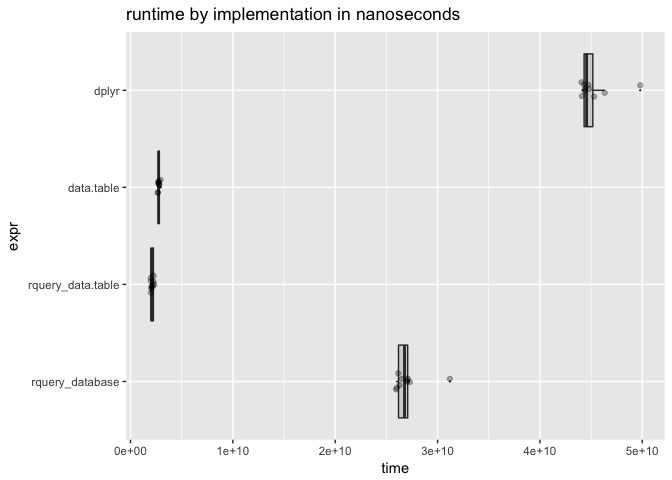
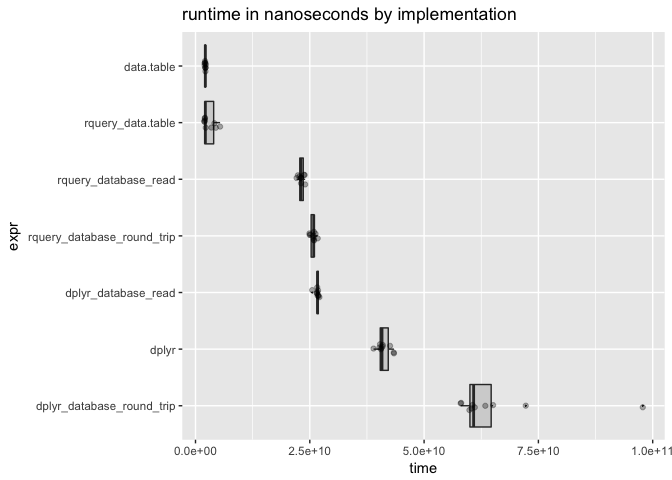
re-run at larger scale

diff --git a/extras/data_table.md b/extras/data_table.md
@@ -170,15 +170,15 @@ execute(dL, rquery_pipeline) %.>%
 scale <- 0.237
 
 dplyr_pipeline <- . %>% 
-  as.tbl(.[, c("subjectID", "surveyCategory", "assessmentTotal")]) %>% # narrow and convert to preferred structure
-  group_by(subjectID) %>%
-  mutate(probability =
-           exp(assessmentTotal * scale)/
-           sum(exp(assessmentTotal * scale), na.rm = TRUE)) %>%
-  arrange(probability, surveyCategory) %>%
-  filter(row_number() == n()) %>%
-  ungroup() %>%
+  select(subjectID, surveyCategory, assessmentTotal) %>% # narrow to columns of interest
   rename(diagnosis = surveyCategory) %>%
+  mutate(probability = exp(assessmentTotal * scale)) %>%
+  group_by(subjectID) %>%
+  mutate(probability = probability / sum(probability, na.rm = TRUE)) %>%
+  arrange(probability, diagnosis) %>%
+  mutate(isDiagnosis = row_number() == n()) %>% # try to avoid grouped filtering overhead
+  ungroup() %>% 
+  filter(isDiagnosis) %>% 
   select(subjectID, diagnosis, probability) %>%
   arrange(subjectID) 
 
@@ -206,32 +206,37 @@ Idiomatic `data.table` pipeline.
 ``` r
 # improved code from:
 # http://www.win-vector.com/blog/2018/01/base-r-can-be-fast/#comment-66746
-data.table_local <- function(dL) {
+data.table_function <- function(dL) {
   # data.table is paying for this copy in its timings (not quite fair)
   # so we will try to minimize it by narrowing columns.
   dDT <- data.table::as.data.table(dL[, c("subjectID", "surveyCategory", "assessmentTotal")])
-  dDT <- dDT[, list(diagnosis = surveyCategory,
-                    probability = exp (assessmentTotal * scale ) /
-                      sum ( exp ( assessmentTotal * scale ) ))
-             , subjectID ]
+  data.table::setnames(dDT, old = "surveyCategory", new = "diagnosis")
+  dDT[, probability := exp(assessmentTotal * scale)]
+  dDT[, probability := probability / sum( probability ), subjectID ]
   data.table::setorder(dDT, subjectID, probability, -diagnosis)
   dDT <- dDT[, .SD[.N], subjectID]
   data.table::setorder(dDT, subjectID)
 }
 
-data.table_local(dL) %.>%
+data.table_function(dL) %.>%
   knitr::kable(.)
 ```
 
-|  subjectID| diagnosis           |  probability|
-|----------:|:--------------------|------------:|
-|          1| positive re-framing |    0.6706221|
-|          2| positive re-framing |    0.5589742|
+|  subjectID| diagnosis           |  assessmentTotal|  probability|
+|----------:|:--------------------|----------------:|------------:|
+|          1| positive re-framing |                6|    0.6706221|
+|          2| positive re-framing |                3|    0.5589742|
 
 Timings on a larger example.
 
 ``` r
-dL <- mk_example(1000000, 10)
+nSubj <- 1000000
+dL <- mk_example(nSubj, 10)
+
+# and an in-database copy
+dR <- rq_copy_to(my_db, table_name = "dL", dL, 
+                 temporary = TRUE, overwrite = TRUE)
+dRtbl <- dplyr::tbl(my_db, dR$table_name)
 ```
 
 ``` r
@@ -239,12 +244,40 @@ dL <- mk_example(1000000, 10)
 dLorig <- dL
 
 ref <- as.data.frame(ex_data_table(rquery_pipeline))
-assertthat::assert_that(min(ref$probability)>=0.5) # sensible effect
+# sensible consequences we can check
+assertthat::assert_that(min(ref$probability)>=0.5) 
 ```
 
     ## [1] TRUE
 
 ``` r
+assertthat::are_equal(nSubj, nrow(ref))
+```
+
+    ## [1] TRUE
+
+``` r
+assertthat::are_equal(ref$subjectID, seq_len(nSubj))
+```
+
+    ## [1] TRUE
+
+``` r
+assertthat::are_equal(colnames(ref), c("subjectID", "diagnosis", "probability"))
+```
+
+    ## [1] TRUE
+
+``` r
+# from database version
+c0 <- as.data.frame(execute(my_db, rquery_pipeline))
+assertthat::are_equal(ref, c0)
+```
+
+    ## [1] TRUE
+
+``` r
+# database round trip version
 c1 <- as.data.frame(execute(dL, rquery_pipeline))
 assertthat::are_equal(ref, c1)
 ```
@@ -259,8 +292,27 @@ assertthat::are_equal(ref, c2)
     ## [1] TRUE
 
 ``` r
-c3 <- as.data.frame(data.table_local(dL))
+# from database version
+c3 <- as.data.frame(dplyr_pipeline(dRtbl))
 assertthat::are_equal(ref, c3)
+```
+
+    ## [1] TRUE
+
+``` r
+# database round trip version
+# narrow by hand before copying to give all advantages.
+c4 <- as.data.frame(dplyr_pipeline(dplyr::copy_to(my_db, 
+                                                  select(dL, subjectID, surveyCategory, assessmentTotal), 
+                                                  "dLtmp", overwrite = TRUE, temporary = TRUE)))
+assertthat::are_equal(ref, c4)
+```
+
+    ## [1] TRUE
+
+``` r
+c5 <- as.data.frame(data.table_function(dL))
+assertthat::are_equal(ref, c5)
 ```
 
     ## [1] FALSE
@@ -274,10 +326,16 @@ assertthat::are_equal(dLorig, dL)
 
 ``` r
 timings <- microbenchmark(times = 10L,
-  rquery_database = nrow(execute(dL, rquery_pipeline)),
+  rquery_database_round_trip = nrow(execute(dL, rquery_pipeline)),
+  rquery_database_read = nrow(as.data.frame(execute(my_db, rquery_pipeline))),
   rquery_data.table = nrow(ex_data_table(rquery_pipeline)),
-  data.table = nrow(data.table_local(dL)),
-  dplyr = nrow(dplyr_pipeline(dL)))
+  data.table = nrow(data.table_function(dL)),
+  dplyr = nrow(dplyr_pipeline(dL)),
+  dplyr_database_read = nrow(as.data.frame(dplyr_pipeline(dRtbl))),
+  dplyr_database_round_trip = nrow(as.data.frame(dplyr_pipeline(dplyr::copy_to(my_db, 
+                                                  select(dL, subjectID, surveyCategory, assessmentTotal), 
+                                                  "dLtmp", overwrite = TRUE, temporary = TRUE))))
+)
 ```
 
 ``` r
@@ -285,34 +343,44 @@ print(timings)
 ```
 
     ## Unit: seconds
-    ##               expr       min        lq      mean    median        uq
-    ##    rquery_database 25.937187 26.147443 27.056254 26.770974 27.095235
-    ##  rquery_data.table  1.968407  1.997359  2.113113  2.053531  2.243977
-    ##         data.table  2.664357  2.719975  2.761548  2.749884  2.791781
-    ##              dplyr 44.068924 44.303141 45.220298 44.563911 45.294210
-    ##        max neval
-    ##  31.200949    10
-    ##   2.311344    10
-    ##   2.940137    10
-    ##  49.800809    10
+    ##                        expr       min        lq      mean    median
+    ##  rquery_database_round_trip 24.932563 25.112882 25.740986 25.862333
+    ##        rquery_database_read 22.101619 22.770426 23.108142 23.071979
+    ##           rquery_data.table  1.906723  2.044988  2.973002  2.153297
+    ##                  data.table  1.993420  2.070655  2.128269  2.148503
+    ##                       dplyr 38.938460 40.362938 41.197011 40.790600
+    ##         dplyr_database_read 25.516189 26.585125 26.630053 26.701492
+    ##   dplyr_database_round_trip 57.998092 59.904662 65.661184 60.836108
+    ##         uq       max neval
+    ##  25.938123 26.732262    10
+    ##  23.724803 23.988663    10
+    ##   4.137149  5.379728    10
+    ##   2.178044  2.263854    10
+    ##  42.556378 43.403159    10
+    ##  26.881072 27.102760    10
+    ##  65.096731 97.828567    10
 
 ``` r
 # summarize by hand using rquery database connector
 summary_pipeline <- timings %.>%
   as.data.frame(.) %.>%
-  project_nse(., groupby = "expr", mean = avg(time)) 
-timings %.>% 
+  project_nse(., groupby = "expr", mean_time = avg(time)) %.>%
+  orderby(., "mean_time")
+means <- timings %.>% 
   as.data.frame(.) %.>%
-  summary_pipeline %.>%
-  knitr::kable(.)
+  summary_pipeline 
+knitr::kable(means)
 ```
 
-| expr               |         mean|
-|:-------------------|------------:|
-| dplyr              |  45220298061|
-| rquery\_database   |  27056253678|
-| rquery\_data.table |   2113113376|
-| data.table         |   2761548488|
+| expr                          |   mean\_time|
+|:------------------------------|------------:|
+| data.table                    |   2128269296|
+| rquery\_data.table            |   2973002074|
+| rquery\_database\_read        |  23108141583|
+| rquery\_database\_round\_trip |  25740986002|
+| dplyr\_database\_read         |  26630052963|
+| dplyr                         |  41197010592|
+| dplyr\_database\_round\_trip  |  65661183543|
 
 ``` r
 autoplot(timings)
@@ -321,9 +389,11 @@ autoplot(timings)
 ![](data_table_files/figure-markdown_github/presenttimings-1.png)
 
 ``` r
+timings <- as.data.frame(timings)
+timings$expr <- factor(timings$expr, rev(means$expr))
 WVPlots::ScatterBoxPlotH(as.data.frame(timings), 
                          "time", "expr", 
-                         "runtime by implementation in nanoseconds")
+                         "runtime in nanoseconds by implementation")
 ```
 
 ![](data_table_files/figure-markdown_github/presenttimings-2.png)
